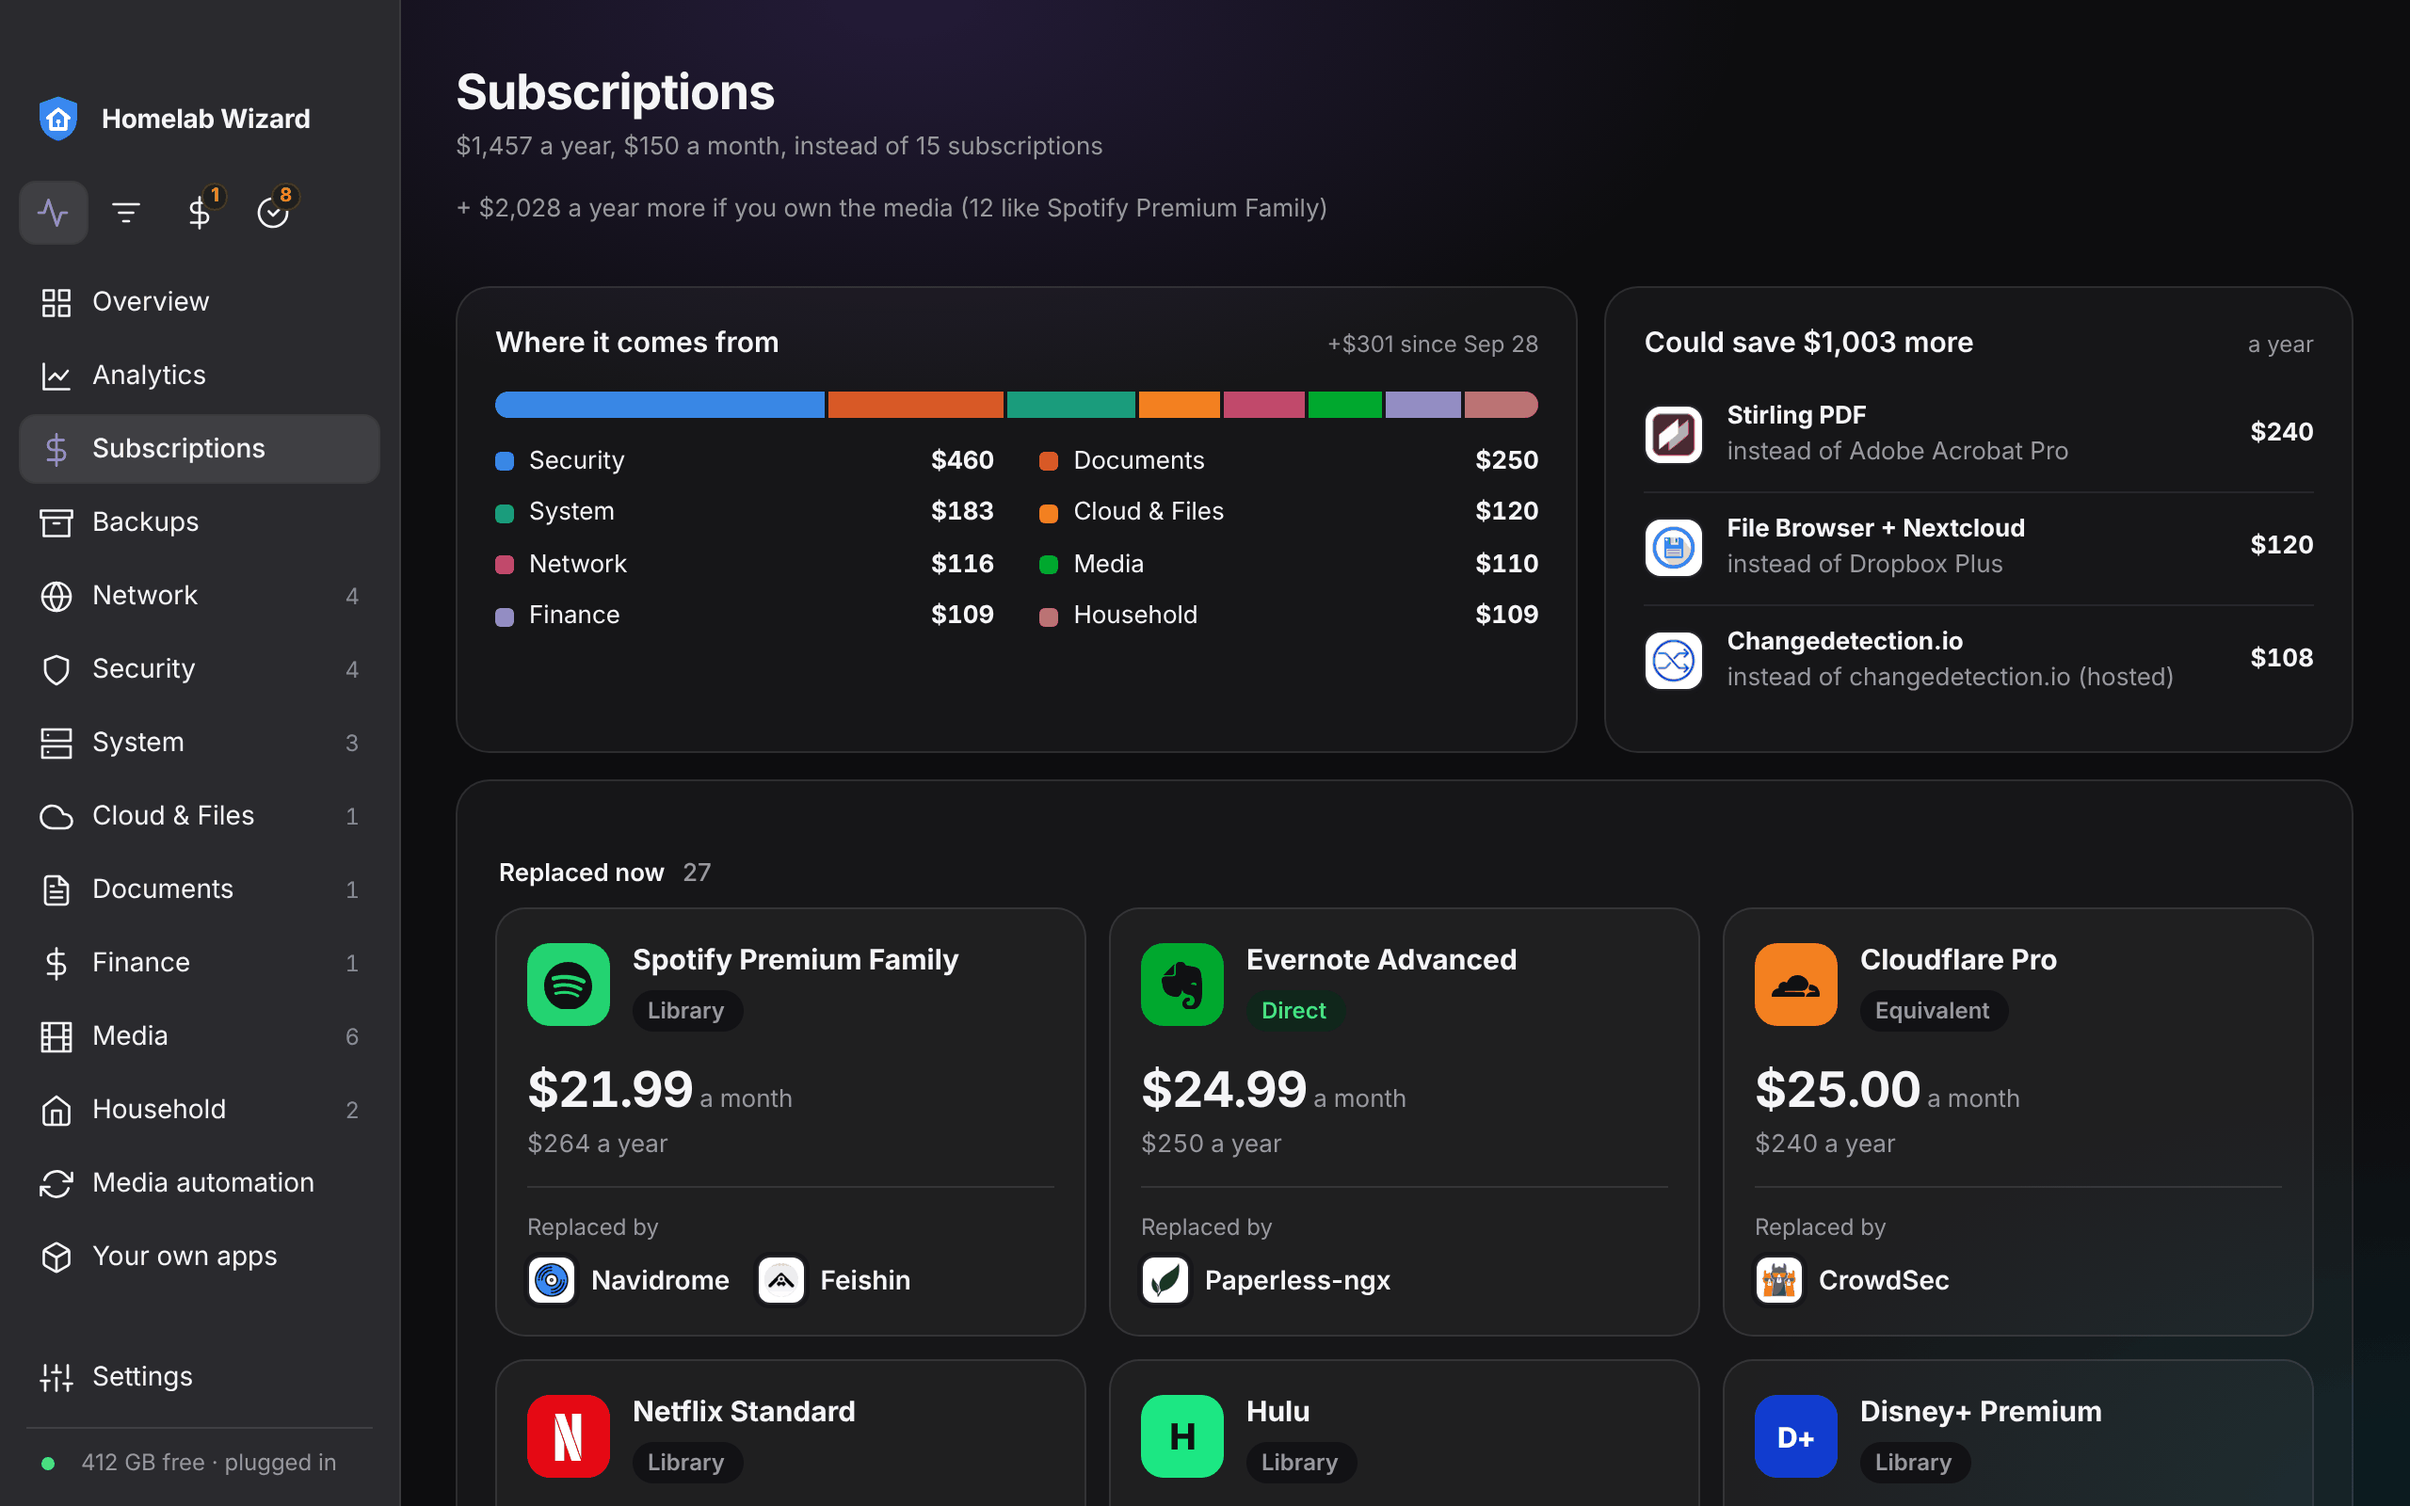
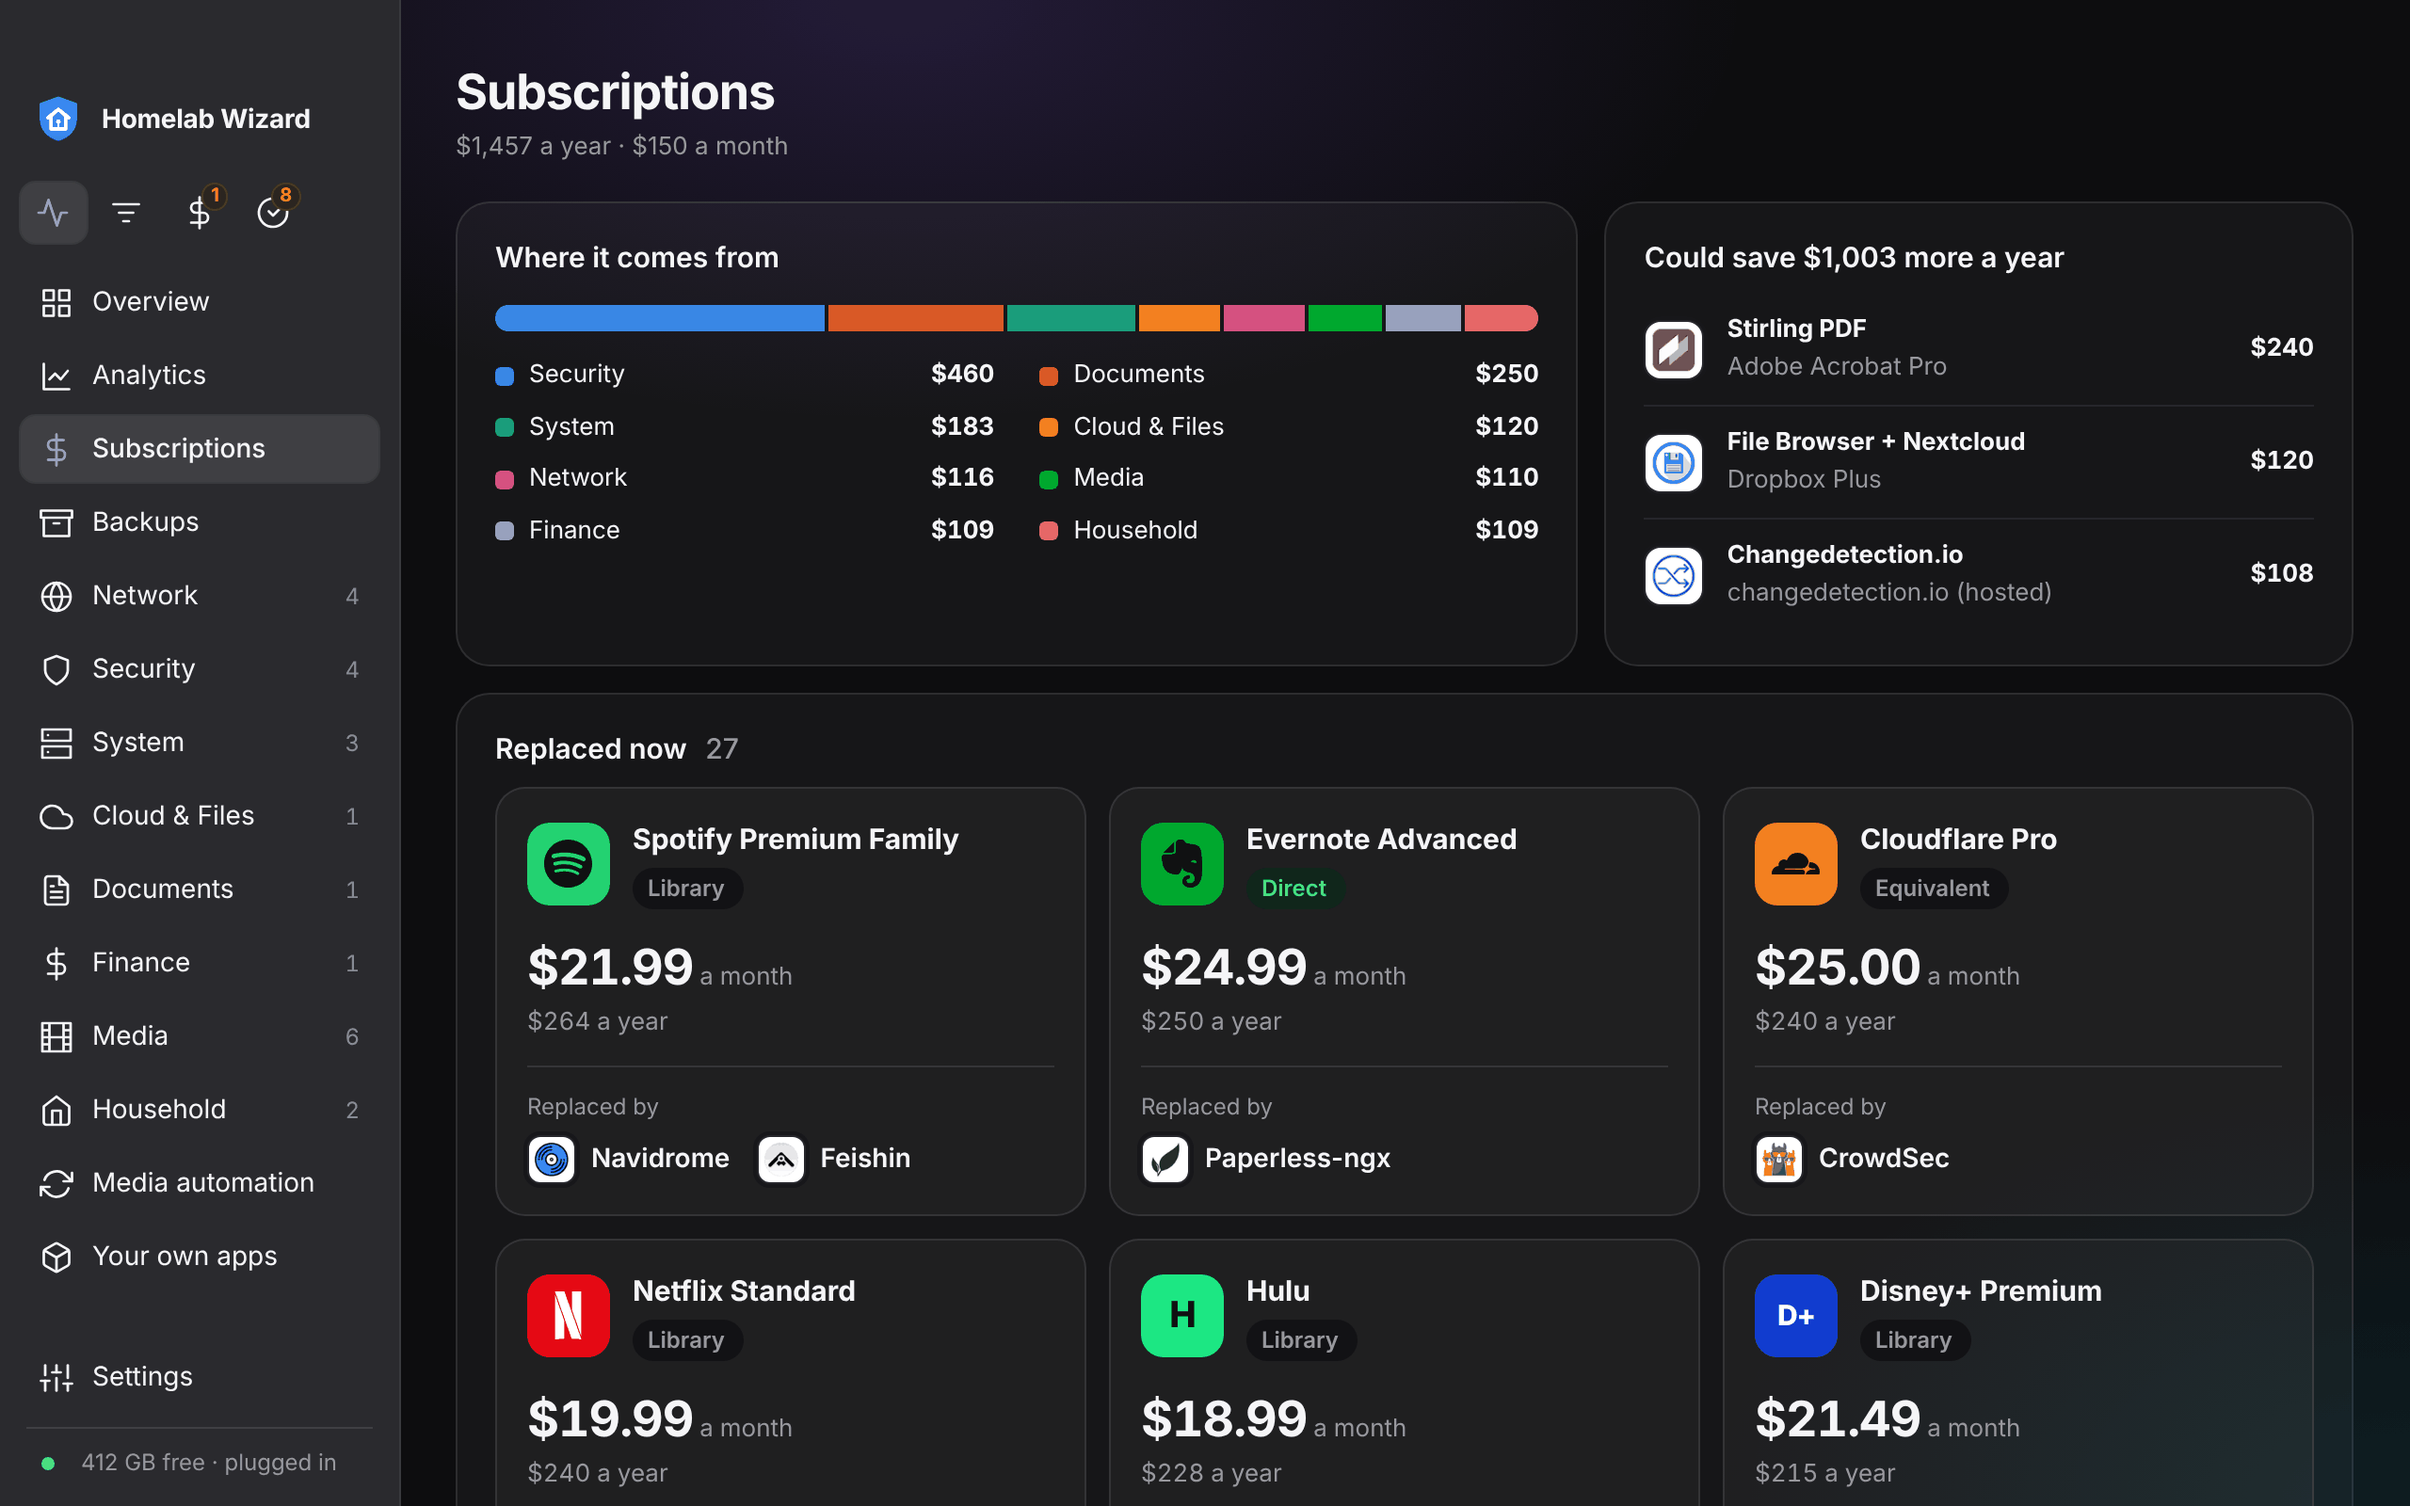
Subscriptions: Replaced now and Could replace too at the top of their cards (#942)
The desktop's h2 rule (22px above, 13px) outranked .subcard h2, so the
two lower cards' headings sat 41px down and smaller than the two above.
The card's rule now wins; a smoke check holds all four headings alike.

Claude-Session: https://claude.ai/code/session_01MiSTxrm6MCnNDF7kXW7KV6

diff --git a/web/dist/style.css b/web/dist/style.css
@@ -3125,7 +3125,7 @@ nav .sidemenulist .sidedot + .total { margin-left:8px; }
 @media (prefers-contrast: more) { #tiles .ovcard { background:var(--panel); border-color:var(--line-strong); } }
 .subpage .card { padding:18px 20px; border-radius:20px; margin-bottom:14px; }
 .subpage .anttiles .card { margin:0; }
-.subcard h2 { margin:0 0 6px; font-size:15px; font-weight:600; }
+.card.subcard h2 { margin:0 0 6px; font-size:15px; font-weight:600; }
 .subcard h2 .n { margin-left:6px; color:var(--muted); font-weight:500; }
 .sublist { list-style:none; margin:0; padding:0; }
 .subrow { display:grid; grid-template-columns:minmax(0, 1fr) auto 120px 120px; align-items:center; column-gap:16px; padding:12px 0; border-top:1px solid var(--line); }

diff --git a/CHANGELOG.md b/CHANGELOG.md
@@ -326,6 +326,7 @@ Notes are grouped as **New**, **Improved**, and **Fixed**, one line each, in pla
 - **Bills on the Homelab app shows a pay period as the computer does:** on the iPhone and iPad, each pay period starts with whose paycheck it is, says what checking holds on payday once its own payments are out and what the period itself comes to, lists every account after it with what changed, and says under each bill how it's paid: its kind, on a card, from another account, or from someone else.
 - **The Homelab app's Transactions search finds what the computer's finds:** on the iPhone and iPad, search by what a charge came to (86.10 or 1,240.55), its day (Oct 28) or its account, as well as the payee, category, note or tag. Each word you type can be anywhere in the row, so *corner work* finds Corner Café tagged work.
 <!-- Everything else (the other lanes): add a line just below this one. -->
+- **Subscriptions' headings line up:** *Replaced now* and *Could replace too* sit at the top of their cards at the same size as *Where it comes from*, without the empty band above them.
 - **Analytics says less:** the Processor and Memory cards name the busiest app and its figure (*Immich · 171%*), without *uses the most*, so the name is no longer cut short. Gone too: the page's second *The last 3 minutes*, *A week isn't kept yet* and *Heaviest first*. The same on the iPhone and iPad.
 - **Status lines up:** on the computer and the web page, *More…* sits level with *Update apps*, and each category's name starts in the same place whether it shows one logo or three. The same on the iPhone and iPad.
 - **Media automation tucked away on Status:** Seerr, where you ask for a film or show, now sits beside Jellyfin under Media. Prowlarr, Sonarr, Radarr and the other apps that find and download what you ask for sit last, folded under one line, *Media automation: finds and downloads what you ask for in Seerr*, and open with a click or when one needs a look. The Downloads card above says what they're getting.
